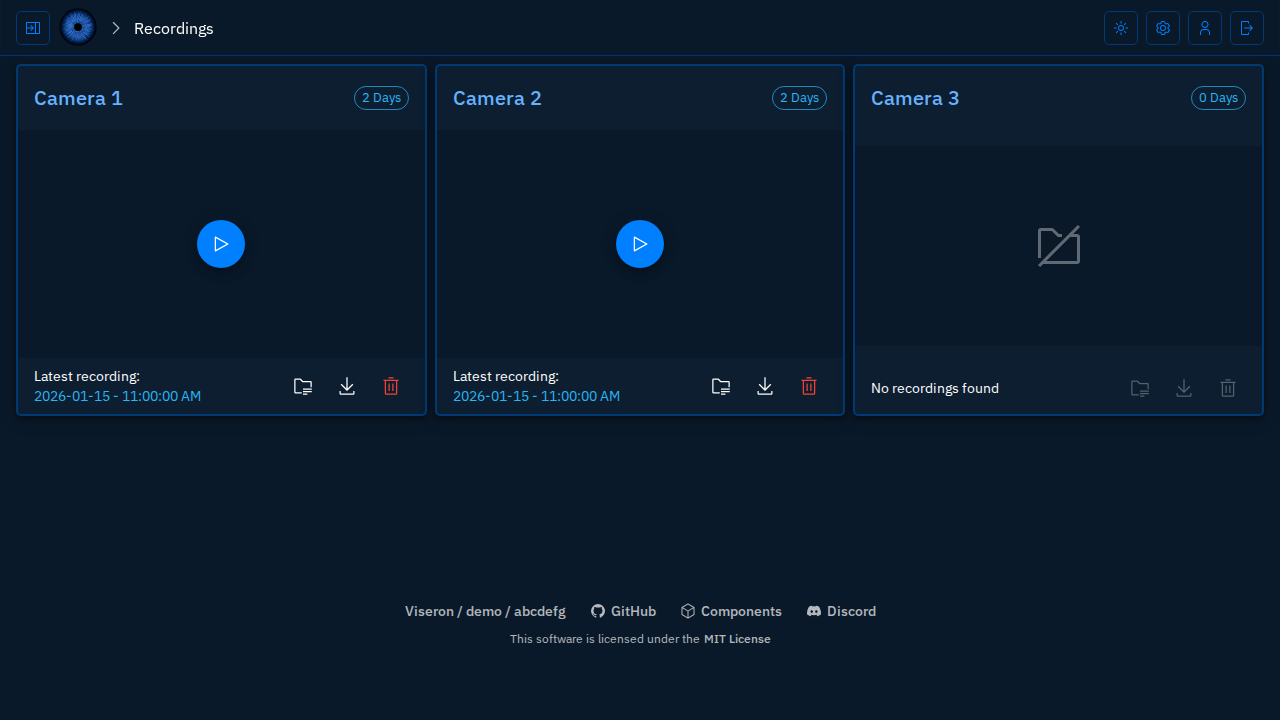
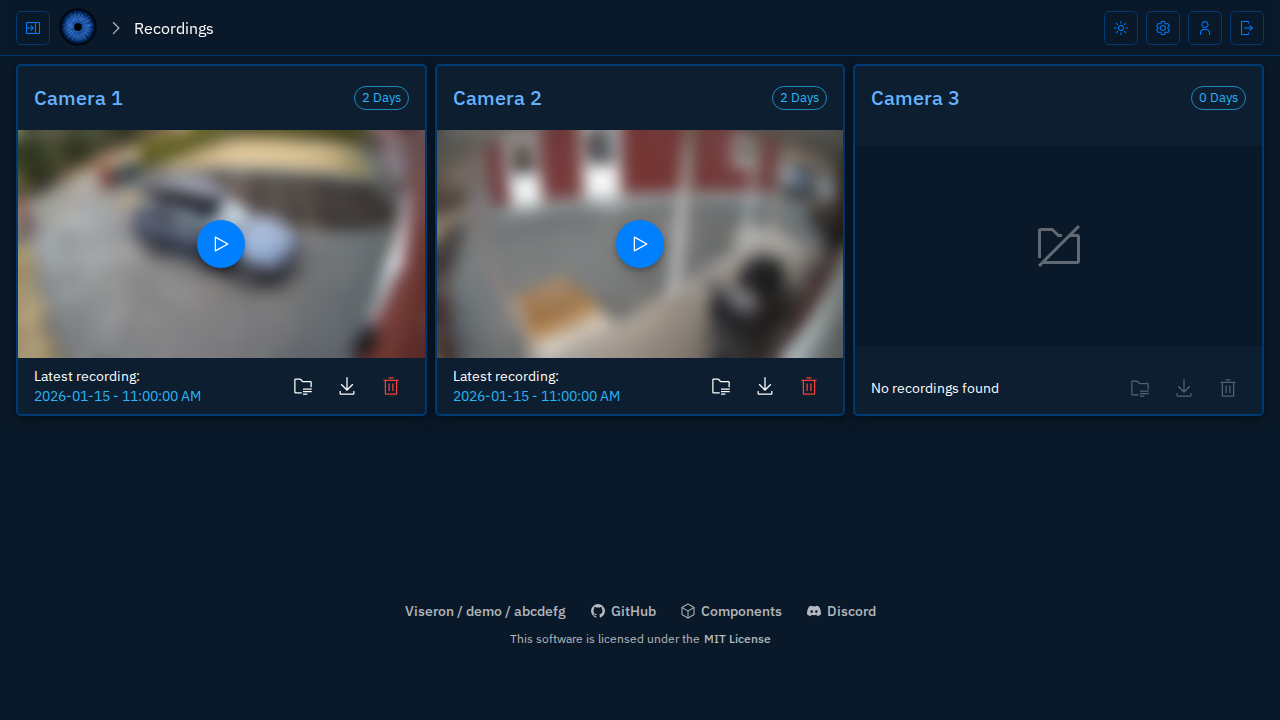
feat(demo): add thumbnails to recordings

Changed region(s): [[0.0, 0.1833, 0.6562, 0.5194]]

diff --git a/frontend/tests/mocks/handlers.test.ts b/frontend/tests/mocks/handlers.test.ts
@@ -43,6 +43,17 @@ describe("createHandlers", () => {
     expect(loadSnapshot).toHaveBeenCalledWith("camera1");
   });
 
+  it("serves recording thumbnails from the camera snapshot", async () => {
+    const loadSnapshot = stubLoader();
+    server.use(...createHandlers(loadSnapshot, nodeVideoLoader));
+
+    const response = await fetch(url("/files/tier1/thumbnails/camera2/4.jpg"));
+
+    expect(response.headers.get("Content-Type")).toBe("image/jpeg");
+    expect(new Uint8Array(await response.arrayBuffer())).toEqual(STUB_BYTES);
+    expect(loadSnapshot).toHaveBeenCalledWith("camera2");
+  });
+
   it("serves video segments from the injected loader", async () => {
     const loadVideo = stubLoader();
     server.use(

diff --git a/frontend/e2e/tests/demo.spec.ts b/frontend/e2e/tests/demo.spec.ts
@@ -78,6 +78,20 @@ test("renders the mocked snapshots on the camera cards", async ({
     .toEqual([true, true, true]);
 });
 
+test("renders the mocked thumbnails on the recording cards", async ({
+  page,
+}: {
+  page: Page;
+}) => {
+  // A poster has no load state to poll, so check the response it requested.
+  const thumbnail = page.waitForResponse(/\/files\/tier1\/thumbnails\//);
+  await page.goto("/#/recordings", { waitUntil: "domcontentloaded" });
+
+  const response = await thumbnail;
+  expect(response.status()).toBe(200);
+  expect(response.headers()["content-type"]).toBe("image/jpeg");
+});
+
 const currentTime = (video: Locator) =>
   video.evaluate((element: HTMLVideoElement) => element.currentTime);
 

diff --git a/frontend/tests/mocks/handlers.ts b/frontend/tests/mocks/handlers.ts
@@ -442,6 +442,13 @@ export const createHandlers = (
       recordingPlaylistResponse(loadVideo, String(params.camera_identifier)),
   ),
 
+  // Recording thumbnails reuse the camera snapshot
+  http.get("/files/:tier/thumbnails/:camera/:file", async ({ params }) =>
+    HttpResponse.arrayBuffer(await loadSnapshot(String(params.camera)), {
+      status: 200,
+      headers: { "Content-Type": "image/jpeg" },
+    }),
+  ),
   http.get("/files/segments/:camera/:file", async ({ params }) =>
     HttpResponse.arrayBuffer(
       await loadVideo.load(`${String(params.camera)}/${String(params.file)}`),
